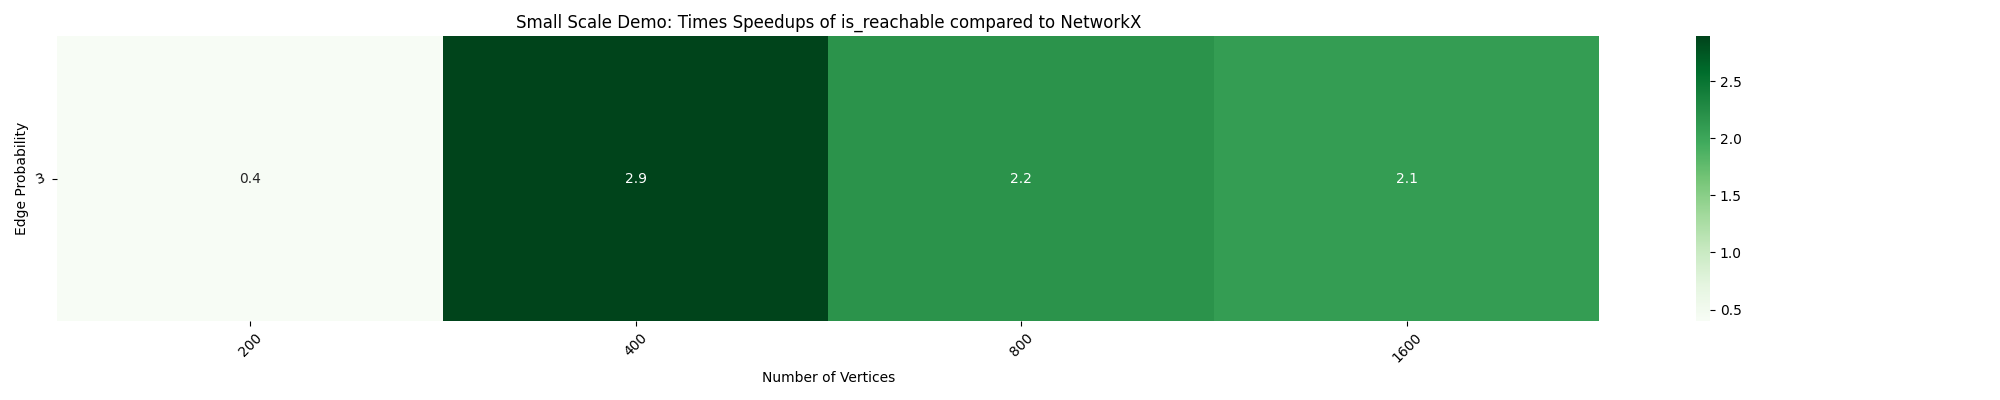
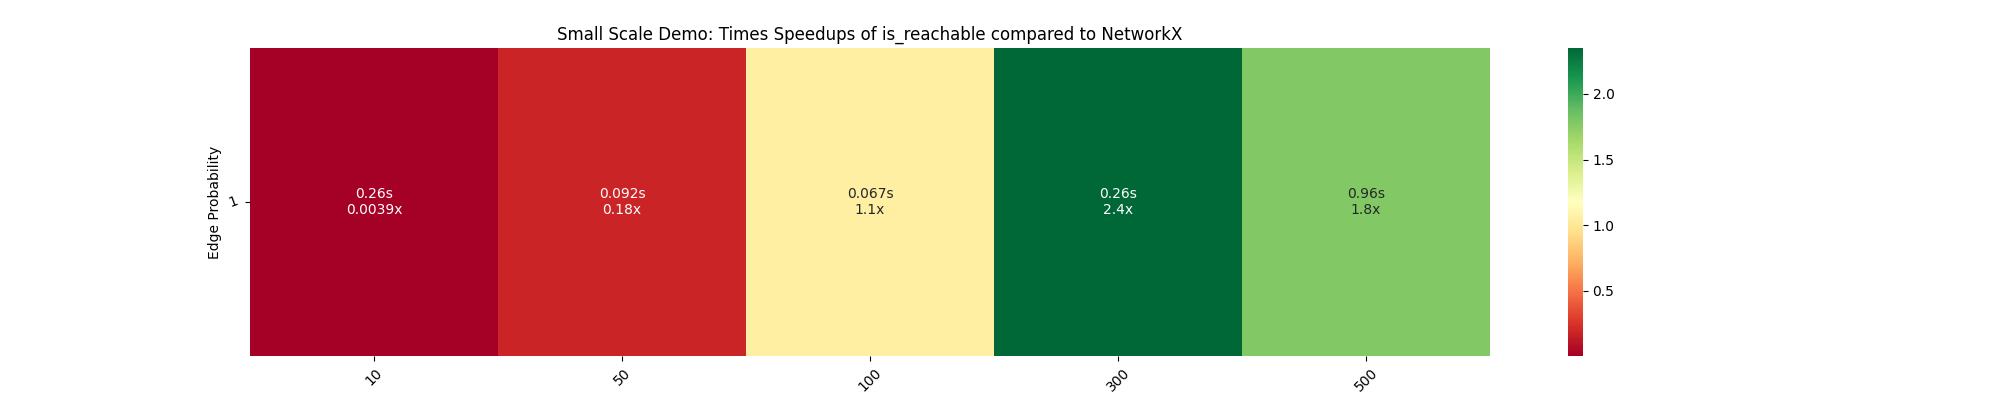
modularized the script

diff --git a/timing/timing_individual_function.py b/timing/timing_individual_function.py
@@ -14,122 +14,148 @@ import joblib
 
 # Default Config
 joblib.parallel_config(n_jobs=-1)
-# To use NetworkX's parallel backend directly, uncomment:
+# To use NetworkX's parallel backend, set the following configuration.
 # nx.config.backends.parallel.active = True
 # nx.config.backends.parallel.n_jobs = 6
 
-heatmapDF = pd.DataFrame()
-number_of_nodes = [10, 50, 100, 300, 500]
 tournament_funcs = ["is_reachable", "tournament_is_strongly_connected"]
 bipartite_funcs = ["node_redundancy"]
-weighted = False
-edge_prob = [1, 0.8, 0.6, 0.4, 0.2]
-currFun = nx.algorithms.centrality.betweenness.betweenness_centrality
 
-if currFun.__name__ not in tournament_funcs:
-    for p in edge_prob:
-        for num in range(len(number_of_nodes)):
-            print(number_of_nodes[num])
-            # create original and parallel graphs
-            G = nx.fast_gnp_random_graph(
-                number_of_nodes[num], p, seed=42, directed=True
-            )
 
-            # for bipartite graphs
-            if currFun.__name__ in bipartite_funcs:
-                n = [50, 100, 200, 400]
-                m = [25, 50, 100, 200]
-                G = nx.bipartite.random_graph(n[num], m[num], p, seed=42, directed=True)
-                for i in G.nodes:
-                    neighbors = list(G.neighbors(i))
-                    if len(neighbors) == 0:
-                        v = random.choice(
-                            list(G.nodes)
-                            - [
+def time_individual_function(currFunc, number_of_nodes, edge_prob, *, weighted=False):
+    def measure_time(G, *args):
+        t1 = perf_counter()
+        c1 = currFunc(G, *args)
+        if isinstance(c1, types.GeneratorType):
+            _ = dict(c1)
+        t2 = perf_counter()
+        return t2 - t1
+
+    speedup_df = pd.DataFrame(index=number_of_nodes, columns=edge_prob, dtype=float)
+    heatmap_annot = pd.DataFrame(index=number_of_nodes, columns=edge_prob, dtype=object)
+
+    if currFunc.__name__ not in tournament_funcs:
+        for p in edge_prob:
+            for num in range(len(number_of_nodes)):
+                # for bipartite graphs
+                if currFunc.__name__ in bipartite_funcs:
+                    n = [50, 100, 200, 400]
+                    m = [25, 50, 100, 200]
+                    print(n[num] + m[num])
+                    G = nx.bipartite.random_graph(
+                        n[num], m[num], p, seed=42, directed=True
+                    )
+                    for i in G.nodes:
+                        neighbors = list(G.neighbors(i))
+                        # Have atleast 2 outgoing edges
+                        if len(neighbors) == 0:
+                            G.add_edge(
+                                i, random.choice([node for node in G if node != i])
+                            )
+                            G.add_edge(
                                 i,
-                            ]
-                        )
-                        G.add_edge(i, v)
-                        G.add_edge(
-                            i, random.choice([node for node in G.nodes if node != i])
-                        )
-                    elif len(neighbors) == 1:
-                        G.add_edge(
-                            i,
-                            random.choice(
-                                [
-                                    node
-                                    for node in G.nodes
-                                    if node != i and node not in list(G.neighbors(i))
-                                ]
-                            ),
-                        )
+                                random.choice(
+                                    [
+                                        node
+                                        for node in G.nodes
+                                        if node != i
+                                        and node not in list(G.neighbors(i))
+                                    ]
+                                ),
+                            )
+                        elif len(neighbors) == 1:
+                            G.add_edge(
+                                i,
+                                random.choice(
+                                    [
+                                        node
+                                        for node in G.nodes
+                                        if node != i
+                                        and node not in list(G.neighbors(i))
+                                    ]
+                                ),
+                            )
+                else:
+                    print(number_of_nodes[num])
+                    G = nx.fast_gnp_random_graph(
+                        number_of_nodes[num], p, seed=42, directed=True
+                    )
 
-            # for weighted graphs
-            if weighted:
-                random.seed(42)
-                for u, v in G.edges():
-                    G[u][v]["weight"] = random.random()
+                # for weighted graphs
+                if weighted:
+                    random.seed(42)
+                    for u, v in G.edges():
+                        G[u][v]["weight"] = random.random()
 
+                H = nxp.ParallelGraph(G)
+                # time both versions and update speedup_df
+                parallelTime = measure_time(H)
+                print(parallelTime)
+                stdTime = measure_time(G)
+                print(stdTime)
+                timesFaster = stdTime / parallelTime
+                speedup_df.at[number_of_nodes[num], p] = timesFaster
+                heatmap_annot.at[number_of_nodes[num], p] = (
+                    f"{parallelTime:.2g}s\n{timesFaster:.2g}x"
+                )
+                print("Finished " + str(currFunc))
+    else:
+        # for tournament graphs
+        for num in number_of_nodes:
+            print(num)
+            G = nx.tournament.random_tournament(num, seed=42)
             H = nxp.ParallelGraph(G)
-            # time both versions and update heatmapDF
-            t1 = perf_counter()
-            c1 = currFun(H)
-            if isinstance(c1, types.GeneratorType):
-                d = dict(c1)
-            t2 = perf_counter()
-            parallelTime = t2 - t1
+            parallelTime = measure_time(H, 1, num)
             print(parallelTime)
-            t1 = perf_counter()
-            c2 = currFun(G)
-            if isinstance(c2, types.GeneratorType):
-                d = dict(c2)
-            t2 = perf_counter()
-            stdTime = t2 - t1
+            stdTime = measure_time(G, 1, num)
             print(stdTime)
             timesFaster = stdTime / parallelTime
-            heatmapDF.at[number_of_nodes[num], p] = timesFaster
-            print("Finished " + str(currFun))
-else:
-    # Code to create for row of heatmap specifically for tournaments
-    for num in number_of_nodes:
-        print(num)
-        G = nx.tournament.random_tournament(num, seed=42)
-        H = nxp.ParallelGraph(G)
-        t1 = perf_counter()
-        c = currFun(H, 1, num)
-        t2 = perf_counter()
-        parallelTime = t2 - t1
-        print(parallelTime)
-        t1 = perf_counter()
-        c = currFun(G, 1, num)
-        t2 = perf_counter()
-        stdTime = t2 - t1
-        print(stdTime)
-        timesFaster = stdTime / parallelTime
-        heatmapDF.at[num, 3] = timesFaster
-        print("Finished " + str(currFun))
+            speedup_df.at[num, edge_prob[0]] = timesFaster
+            heatmap_annot.at[num, edge_prob[0]] = (
+                f"{parallelTime:.2g}s\n{timesFaster:.2g}x"
+            )
+            print("Finished " + str(currFunc))
+    return (speedup_df, heatmap_annot)
 
 
-# Plot the heatmap with performance speedup values
-plt.figure(figsize=(20, 4))
-hm = sns.heatmap(data=heatmapDF.T, annot=True, cmap="RdYlGn", cbar=True)
+def plot_timing_heatmap(currFunc):
+    number_of_nodes = (
+        [10, 50, 100, 300, 500]
+        if currFunc.__name__ not in bipartite_funcs
+        else [75, 150, 300, 600]
+    )
+    edge_prob = (
+        [1, 0.8, 0.6, 0.4, 0.2] if currFunc.__name__ not in tournament_funcs else [1]
+    )
+    (speedup_df, heatmap_annot) = time_individual_function(
+        currFunc, number_of_nodes, edge_prob
+    )
 
-# Set tick labels for y-axis (edge probabilities) and x-axis (number of nodes)
-hm.set_yticklabels(edge_prob)
-hm.set_xticklabels(number_of_nodes)
+    # Plot the heatmap with performance speedup values
+    plt.figure(figsize=(20, 4))
+    hm = sns.heatmap(
+        data=speedup_df.T, annot=heatmap_annot.T, fmt="", cmap="RdYlGn", cbar=True
+    )
 
-# Improve readability by rotating axis tick labels
-plt.xticks(rotation=45)
-plt.yticks(rotation=20)
+    # Set tick labels for y-axis (edge probabilities) and x-axis (number of nodes)
+    hm.set_xticklabels(number_of_nodes)
+    hm.set_yticklabels(edge_prob)
 
-plt.title(
-    "Small Scale Demo: Times Speedups of " + currFun.__name__ + " compared to NetworkX"
-)
-plt.xlabel("Number of Vertices")
-plt.ylabel("Edge Probability")
-print(currFun.__name__)
+    # Improve readability by rotating axis tick labels
+    plt.xticks(rotation=45)
+    plt.yticks(rotation=20)
+    plt.title(
+        "Small Scale Demo: Times Speedups of "
+        + currFunc.__name__
+        + " compared to NetworkX"
+    )
+    plt.xlabel("Number of Vertices")
+    plt.ylabel("Edge Probability")
+    print(currFunc.__name__)
 
-# Display the plotted heatmap
-plt.tight_layout()
-plt.savefig("timing/" + "heatmap_" + currFun.__name__ + "_timing.png")
+    plt.savefig("timing/" + "heatmap_" + currFunc.__name__ + "_timing.png")
+
+
+plot_timing_heatmap(nx.algorithms.tournament.is_reachable)
+plot_timing_heatmap(nx.algorithms.bipartite.redundancy.node_redundancy)
+plot_timing_heatmap(nx.algorithms.centrality.betweenness.betweenness_centrality)
